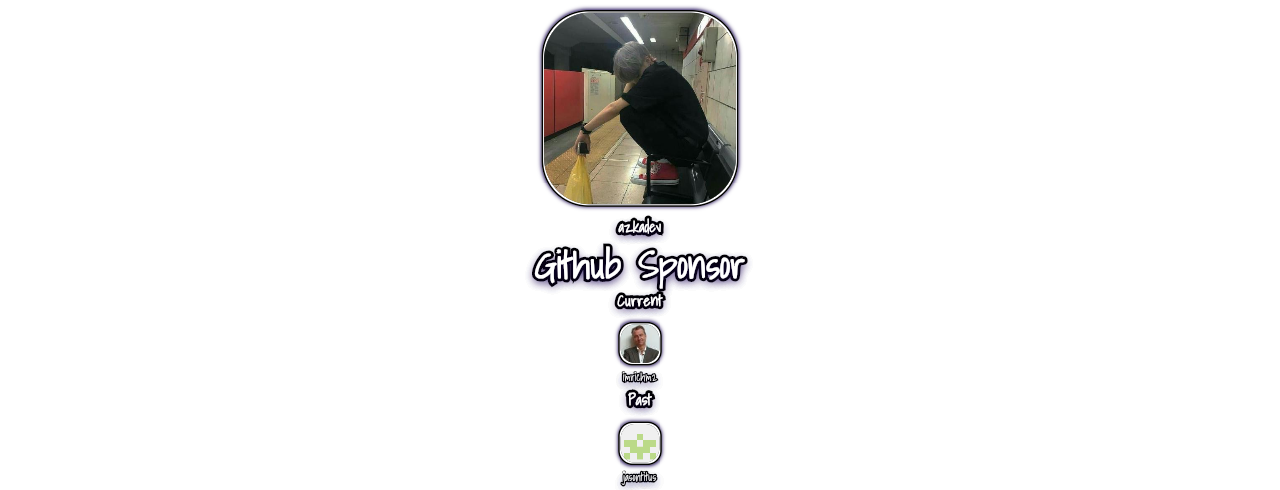
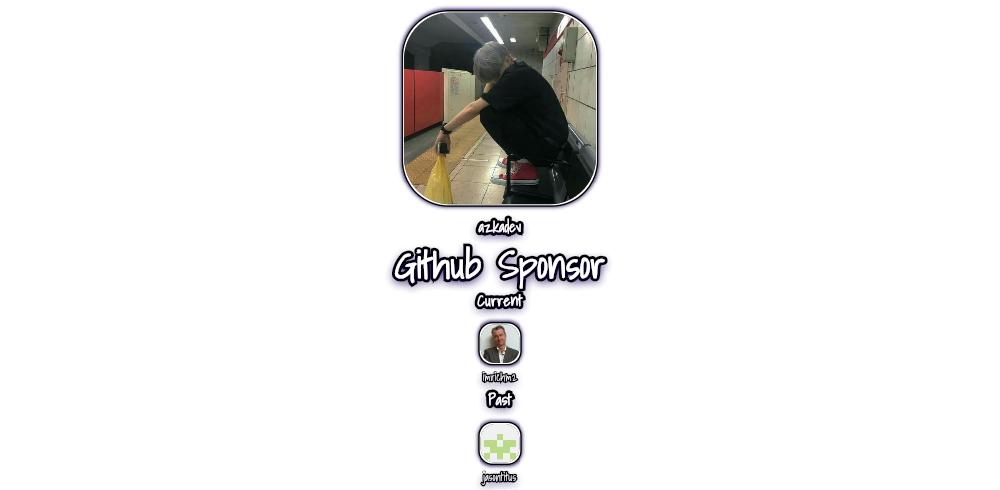
up

Changed region(s): [[0.372, 0.0, 0.62, 0.4286], [0.372, 0.4286, 0.62, 0.8265], [0.465, 0.8571, 0.527, 1.0]]

diff --git a/package/github_sponsor_flutter/lib/github_sponsor_flutter_core.dart b/package/github_sponsor_flutter/lib/github_sponsor_flutter_core.dart
@@ -154,7 +154,7 @@ class _GithubSponsorFlutterState extends State<GithubSponsorFlutter> {
           child: RepaintBoundary(
             key: globalKey,
             child: SizedBox(
-              width: 1280,
+              width: 1000,
               child: SponsorPage(
                 username: github_username,
                 githubSponsor: githubSponsor,
